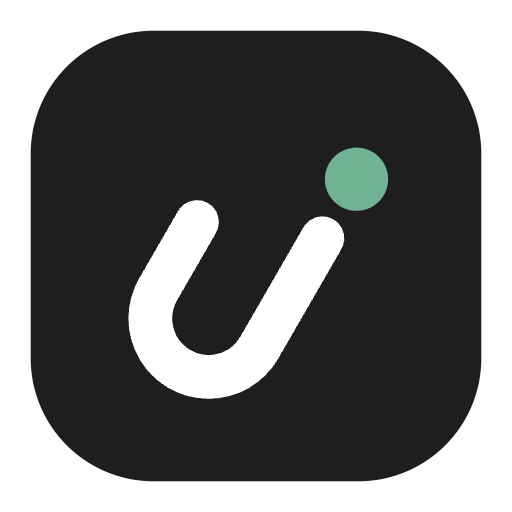
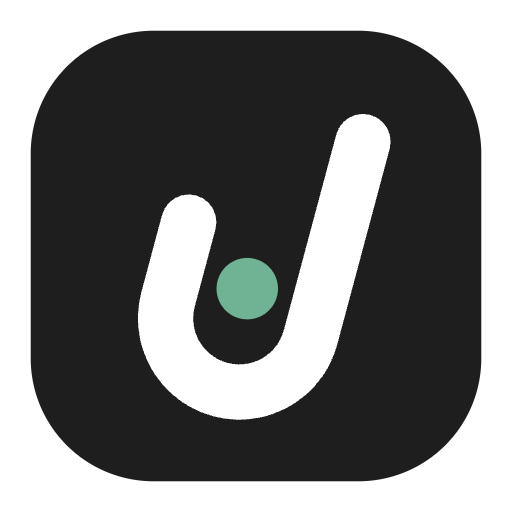
fix(layout): 점핏과 겹치지 않게 로고 수정 배포
심볼의 초록 점을 u 그릇 안으로 옮기고 15° 기울임, 글자 로고를 justus.ing(마침표 초록)으로 변경, 아이콘·og·/brand/ 이미지 다시 생성

Changed region(s): [[0.3125, 0.2188, 0.7812, 0.8438], [0.2812, 0.375, 0.4062, 0.5312], [0.25, 0.5312, 0.3125, 0.75]]

diff --git a/src/brand/logo.ts b/src/brand/logo.ts
@@ -2,8 +2,9 @@
  * 로고의 유일한 출처. 머리글(Logo.astro), favicon·내려받기 파일(src/pages/brand/), PNG(scripts/make-brand-images.mjs)이
  * 모두 이 값으로 그린다.
  *
- * - 심볼: 둥근 검정 네모 안에 30° 기울인 흰 j. 꼬리를 말아 올려 u처럼도 보인다. j의 점은 초록.
- * - 글자: Pretendard Bold로 쓴 "justusing"을 도형으로 바꾼 것. j의 점만 따로 떼어 초록으로 칠한다.
+ * - 심볼: 둥근 검정 네모 안에 15° 기울인 흰 j. 꼬리를 말아 올려 u처럼도 보인다 (j인지 u인지 헷갈리는 것이 핵심).
+ *   초록 점은 j 머리 위가 아니라 u 그릇 안에 둔다. 머리 위에 두면 점핏(Jumpit) 로고와 같아진다.
+ * - 글자: Pretendard Bold로 쓴 "justus.ing"(도메인)을 도형으로 바꾼 것. 마침표만 초록이다.
  */
 
 /** 심볼 색. 화면 테마와 상관없이 늘 같다 (앱 아이콘처럼). 점은 사이트 다크 테마의 초록 */
@@ -21,18 +22,20 @@ export const MARK_DARK_LINE = '#3a3a3a';
 /** 심볼 (viewBox 0 0 100 100) */
 export const MARK = {
   tile: { x: 6, y: 6, size: 88, radius: 24 },
-  /** j 글자를 그리는 좌표계: 가운데로 옮겨 30° 기울인다 */
-  transform: 'translate(50 50) rotate(30) scale(0.95) translate(-2 5)',
-  letter: 'M12 -15 V11 A12 12 0 0 1 -12 11 V-5',
+  /** j 글자를 그리는 좌표계: 가운데로 옮겨 15° 기울이고, 네모의 약 70%를 채우게 키운다 */
+  transform: 'translate(50 50) rotate(15) scale(1.2) translate(0 -0.5)',
+  /** 줄기는 길게(j), 꼬리는 그보다 낮게 말아 올린다(u) */
+  letter: 'M12 -22 V11 A12 12 0 0 1 -12 11 V-2',
   letterWidth: 9,
-  dot: { cx: 12, cy: -29, r: 6.5 },
+  /** u 그릇 안 */
+  dot: { cx: 0, cy: 6, r: 5 },
 } as const;
 
-/** 글자 로고 (Pretendard Bold, 2048 단위). 기준선이 y=0 */
+/** 글자 로고 (Pretendard Bold, 2048 단위). 기준선이 y=0. dot은 justus와 ing 사이의 마침표 */
 export const WORDMARK = {
-  box: { x: 0, y: -1530, width: 8604.32, height: 1938 },
-  ink: 'M116 -1086V50C116 132 80 176 -16 176C-30 176 -40 174 -56 174V406L4 408C258 408 412 304 412 54V-1086Z M1297.04 -462C1297.04 -314 1195.04 -236 1087.04 -236C971.04 -236 897.04 -318 897.04 -446V-1086H601.04V-394C601.04 -140 749.04 14 967.04 14C1131.04 14 1247.04 -70 1297.04 -196H1309.04V0H1593.04V-1086H1297.04Z M2402.08 -764H2680.08C2664.08 -970 2494.08 -1100 2220.08 -1100C1940.08 -1100 1760.08 -970 1762.08 -762C1760.08 -602 1868.08 -494 2074.08 -454L2254.08 -418C2356.08 -396 2402.08 -362 2402.08 -306C2402.08 -236 2330.08 -192 2222.08 -192C2114.08 -192 2044.08 -236 2030.08 -322H1732.08C1756.08 -110 1928.08 22 2222.08 22C2510.08 22 2702.08 -122 2704.08 -336C2702.08 -492 2600.08 -586 2390.08 -630L2196.08 -670C2094.08 -692 2054.08 -730 2056.08 -778C2054.08 -844 2128.08 -890 2224.08 -890C2322.08 -890 2390.08 -840 2402.08 -764Z M3417.12 -1086H3213.12V-1346H2917.12V-1086H2767.12V-864H2917.12V-292C2915.12 -82 3061.12 14 3275.12 14C3349.12 14 3401.12 10 3433.12 4V-230C3397.12 -226 3345.12 -224 3315.12 -224C3255.12 -226 3213.12 -248 3213.12 -334V-864H3417.12Z M4258.16 -462C4258.16 -314 4156.16 -236 4048.16 -236C3932.16 -236 3858.16 -318 3858.16 -446V-1086H3562.16V-394C3562.16 -140 3710.16 14 3928.16 14C4092.16 14 4208.16 -70 4258.16 -196H4270.16V0H4554.16V-1086H4258.16Z M5363.2 -764H5641.2C5625.2 -970 5455.2 -1100 5181.2 -1100C4901.2 -1100 4721.2 -970 4723.2 -762C4721.2 -602 4829.2 -494 5035.2 -454L5215.2 -418C5317.2 -396 5363.2 -362 5363.2 -306C5363.2 -236 5291.2 -192 5183.2 -192C5075.2 -192 5005.2 -236 4991.2 -322H4693.2C4717.2 -110 4889.2 22 5183.2 22C5471.2 22 5663.2 -122 5665.2 -336C5663.2 -492 5561.2 -586 5351.2 -630L5157.2 -670C5055.2 -692 5015.2 -730 5017.2 -778C5015.2 -844 5089.2 -890 5185.2 -890C5283.2 -890 5351.2 -840 5363.2 -764Z M5806.24 0H6102.24V-1086H5806.24Z M5954.24 -1228C6042.24 -1228 6114.24 -1296 6114.24 -1378C6114.24 -1462 6042.24 -1530 5954.24 -1530C5864.24 -1530 5792.24 -1462 5792.24 -1378C5792.24 -1296 5864.24 -1228 5954.24 -1228Z M6587.28 -628C6587.28 -772 6671.28 -854 6795.28 -854C6917.28 -854 6991.28 -774 6991.28 -640V0H7285.28V-692C7287.28 -946 7137.28 -1100 6911.28 -1100C6751.28 -1100 6635.28 -1022 6585.28 -896H6573.28V-1086H6291.28V0H6587.28Z M7962.32 430C8270.32 430 8490.32 288 8490.32 12V-1086H8196.32V-904H8184.32C8144.32 -992 8056.32 -1100 7874.32 -1100C7634.32 -1100 7432.32 -918 7432.32 -550C7432.32 -188 7628.32 -16 7874.32 -16C8048.32 -16 8144.32 -104 8184.32 -192H8198.32V6C8198.32 158 8106.32 216 7968.32 216C7850.32 216 7768.32 176 7752.32 90H7460.32C7478.32 296 7662.32 430 7962.32 430Z M7966.32 -238C7816.32 -238 7736.32 -358 7736.32 -546C7736.32 -734 7816.32 -864 7966.32 -864C8114.32 -864 8198.32 -740 8198.32 -546C8198.32 -354 8114.32 -238 7966.32 -238Z',
-  dot: { cx: 261.0, cy: -1379.0, r: 161.0 },
+  box: { x: 0, y: -1530, width: 9141.36, height: 1960 },
+  ink: 'M116 -1086V50C116 132 80 176 -16 176C-30 176 -40 174 -56 174V406L4 408C258 408 412 304 412 54V-1086ZM262 -1228C350 -1228 422 -1296 422 -1378C422 -1462 350 -1530 262 -1530C172 -1530 100 -1462 100 -1378C100 -1296 172 -1228 262 -1228Z M1297.04 -462C1297.04 -314 1195.04 -236 1087.04 -236C971.04 -236 897.04 -318 897.04 -446V-1086H601.04V-394C601.04 -140 749.04 14 967.04 14C1131.04 14 1247.04 -70 1297.04 -196H1309.04V0H1593.04V-1086H1297.04Z M2402.08 -764H2680.08C2664.08 -970 2494.08 -1100 2220.08 -1100C1940.08 -1100 1760.08 -970 1762.08 -762C1760.08 -602 1868.08 -494 2074.08 -454L2254.08 -418C2356.08 -396 2402.08 -362 2402.08 -306C2402.08 -236 2330.08 -192 2222.08 -192C2114.08 -192 2044.08 -236 2030.08 -322H1732.08C1756.08 -110 1928.08 22 2222.08 22C2510.08 22 2702.08 -122 2704.08 -336C2702.08 -492 2600.08 -586 2390.08 -630L2196.08 -670C2094.08 -692 2054.08 -730 2056.08 -778C2054.08 -844 2128.08 -890 2224.08 -890C2322.08 -890 2390.08 -840 2402.08 -764Z M3417.12 -1086H3213.12V-1346H2917.12V-1086H2767.12V-864H2917.12V-292C2915.12 -82 3061.12 14 3275.12 14C3349.12 14 3401.12 10 3433.12 4V-230C3397.12 -226 3345.12 -224 3315.12 -224C3255.12 -226 3213.12 -248 3213.12 -334V-864H3417.12Z M4258.16 -462C4258.16 -314 4156.16 -236 4048.16 -236C3932.16 -236 3858.16 -318 3858.16 -446V-1086H3562.16V-394C3562.16 -140 3710.16 14 3928.16 14C4092.16 14 4208.16 -70 4258.16 -196H4270.16V0H4554.16V-1086H4258.16Z M5363.2 -764H5641.2C5625.2 -970 5455.2 -1100 5181.2 -1100C4901.2 -1100 4721.2 -970 4723.2 -762C4721.2 -602 4829.2 -494 5035.2 -454L5215.2 -418C5317.2 -396 5363.2 -362 5363.2 -306C5363.2 -236 5291.2 -192 5183.2 -192C5075.2 -192 5005.2 -236 4991.2 -322H4693.2C4717.2 -110 4889.2 22 5183.2 22C5471.2 22 5663.2 -122 5665.2 -336C5663.2 -492 5561.2 -586 5351.2 -630L5157.2 -670C5055.2 -692 5015.2 -730 5017.2 -778C5015.2 -844 5089.2 -890 5185.2 -890C5283.2 -890 5351.2 -840 5363.2 -764Z M6343.28 0H6639.28V-1086H6343.28ZM6491.28 -1228C6579.28 -1228 6651.28 -1296 6651.28 -1378C6651.28 -1462 6579.28 -1530 6491.28 -1530C6401.28 -1530 6329.28 -1462 6329.28 -1378C6329.28 -1296 6401.28 -1228 6491.28 -1228Z M7124.32 -628C7124.32 -772 7208.32 -854 7332.32 -854C7454.32 -854 7528.32 -774 7528.32 -640V0H7822.32V-692C7824.32 -946 7674.32 -1100 7448.32 -1100C7288.32 -1100 7172.32 -1022 7122.32 -896H7110.32V-1086H6828.32V0H7124.32Z M8499.36 430C8807.36 430 9027.36 288 9027.36 12V-1086H8733.36V-904H8721.36C8681.36 -992 8593.36 -1100 8411.36 -1100C8171.36 -1100 7969.36 -918 7969.36 -550C7969.36 -188 8165.36 -16 8411.36 -16C8585.36 -16 8681.36 -104 8721.36 -192H8735.36V6C8735.36 158 8643.36 216 8505.36 216C8387.36 216 8305.36 176 8289.36 90H7997.36C8015.36 296 8199.36 430 8499.36 430ZM8503.36 -238C8353.36 -238 8273.36 -358 8273.36 -546C8273.36 -734 8353.36 -864 8503.36 -864C8651.36 -864 8735.36 -740 8735.36 -546C8735.36 -354 8651.36 -238 8503.36 -238Z',
+  dot: 'M5980.24 18C6068.24 18 6146.24 -58 6146.24 -150C6146.24 -242 6068.24 -316 5980.24 -316C5886.24 -316 5810.24 -242 5812.24 -150C5810.24 -58 5886.24 18 5980.24 18Z',
 } as const;
 
 /** 심볼 + 글자 가로 배치 (viewBox 0 0 LOCKUP.width 100). 글자 높이는 심볼의 60% */
@@ -64,8 +67,7 @@ export function markShapes(c: MarkColors = MARK_COLORS): string {
 
 /** 글자 로고 SVG 내용 (2048 단위 좌표) */
 export function wordmarkShapes(ink: string, dot: string): string {
-  const d = WORDMARK.dot;
-  return `<path d="${WORDMARK.ink}" fill="${ink}"/><circle cx="${d.cx}" cy="${d.cy}" r="${d.r}" fill="${dot}"/>`;
+  return `<path d="${WORDMARK.ink}" fill="${ink}"/><path d="${WORDMARK.dot}" fill="${dot}"/>`;
 }
 
 const svg = (viewBox: string, body: string) =>
